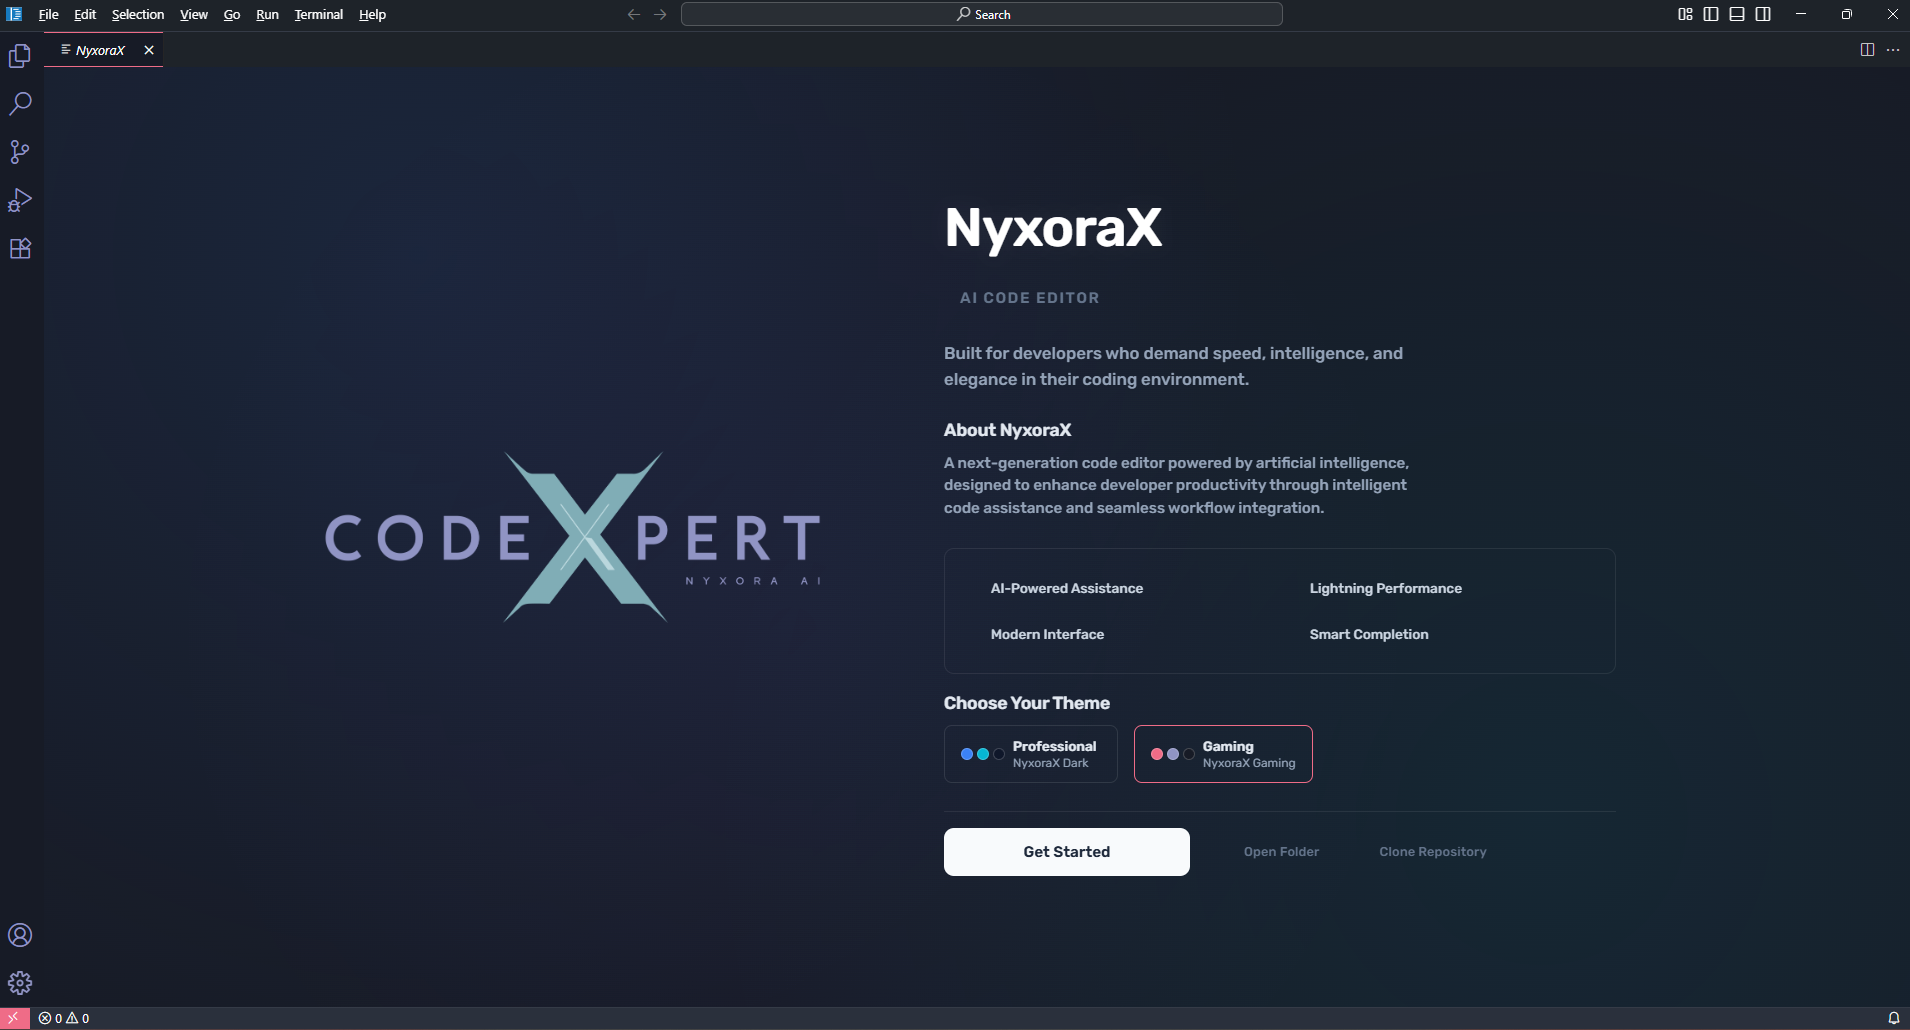
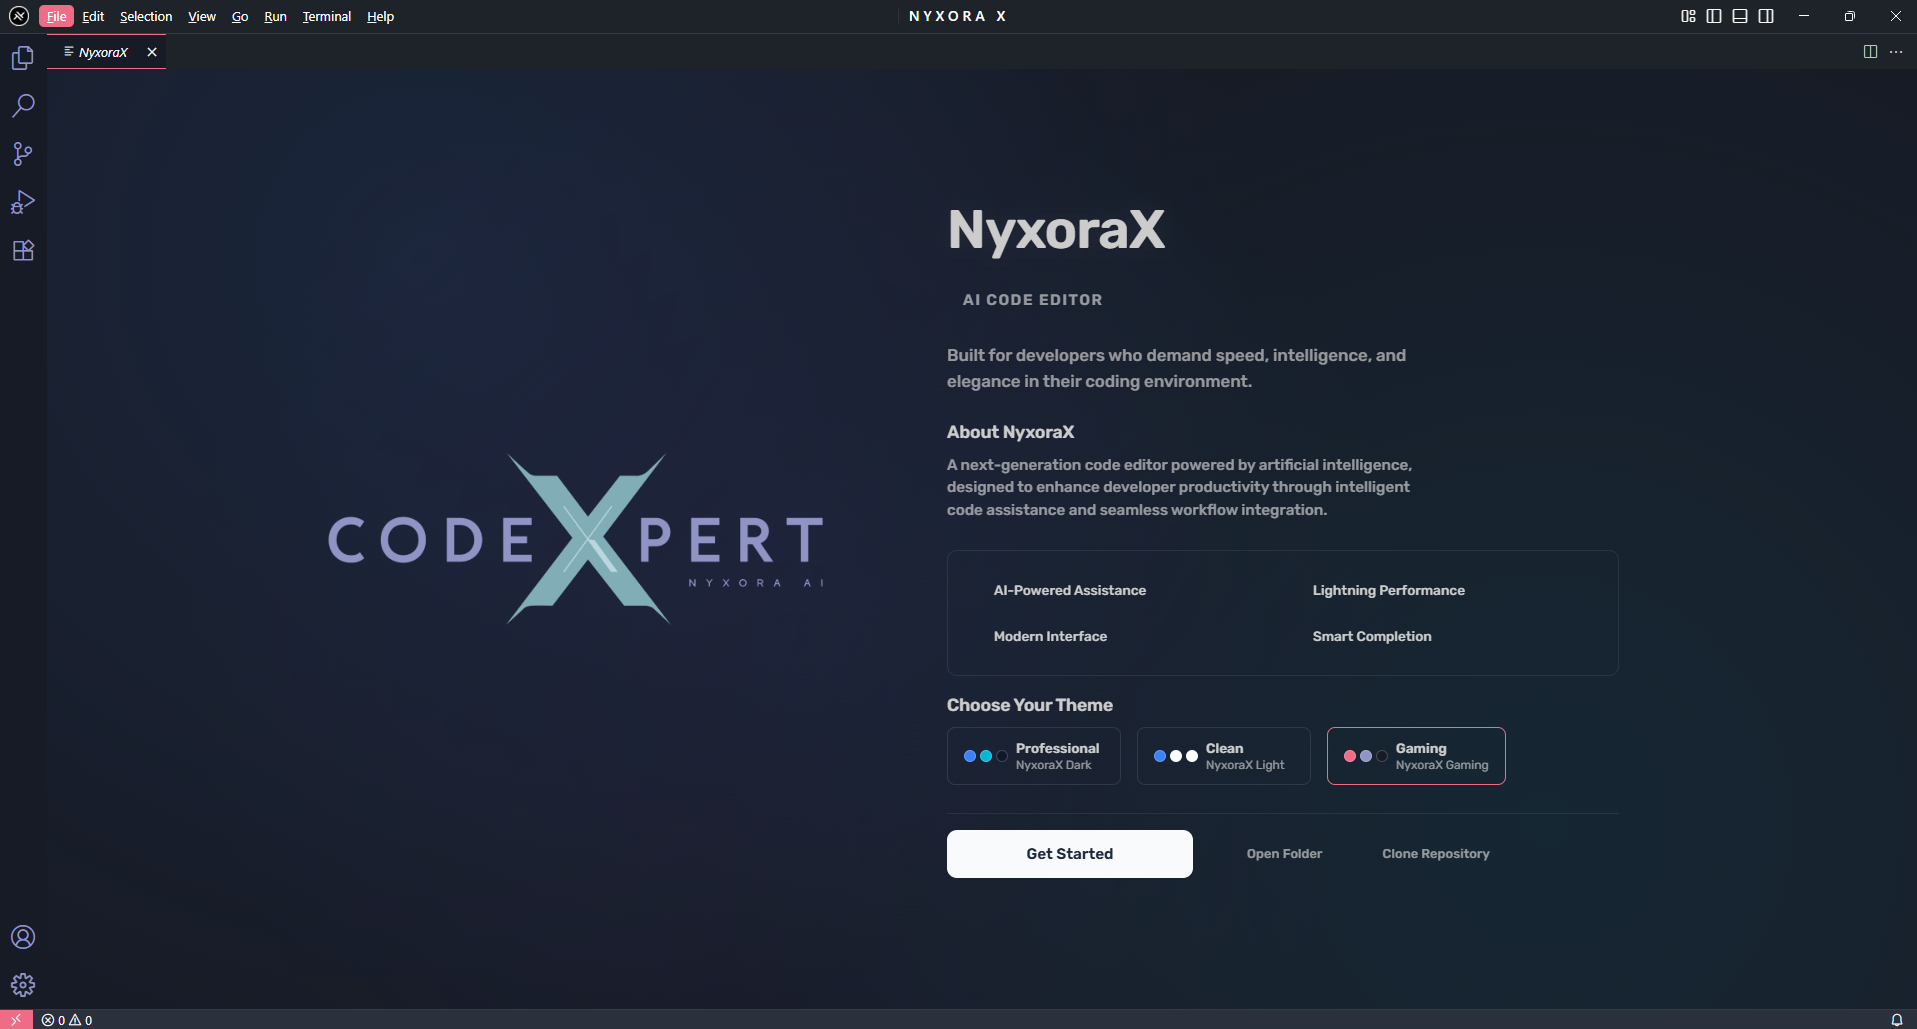
Source Code

diff --git a/README.md b/README.md
@@ -88,14 +88,19 @@ npm run watch
 <table>
 <tr>
 <td align="center">
-<img src="public/Professional-Theme.png" alt="Professional" width="300">
+<img src="public/Professional-Theme.png" alt="Professional" width="250">
 <br><strong>Professional</strong>
 <br><em>Clean, elegant design</em>
 </td>
 <td align="center">
-<img src="public/Gameing-theme.png" alt="Gaming" width="300">
+<img src="public/Gameing-theme.png" alt="Gaming" width="250">
 <br><strong>Gaming</strong>
 <br><em>Vibrant, energetic colors</em>
+</td>
+<td align="center">
+<img src="public/Light-Theme.png" alt="Light" width="250">
+<br><strong>Light</strong>
+<br><em>Bright, minimalist interface</em>
 </td>
 </tr>
 </table>
